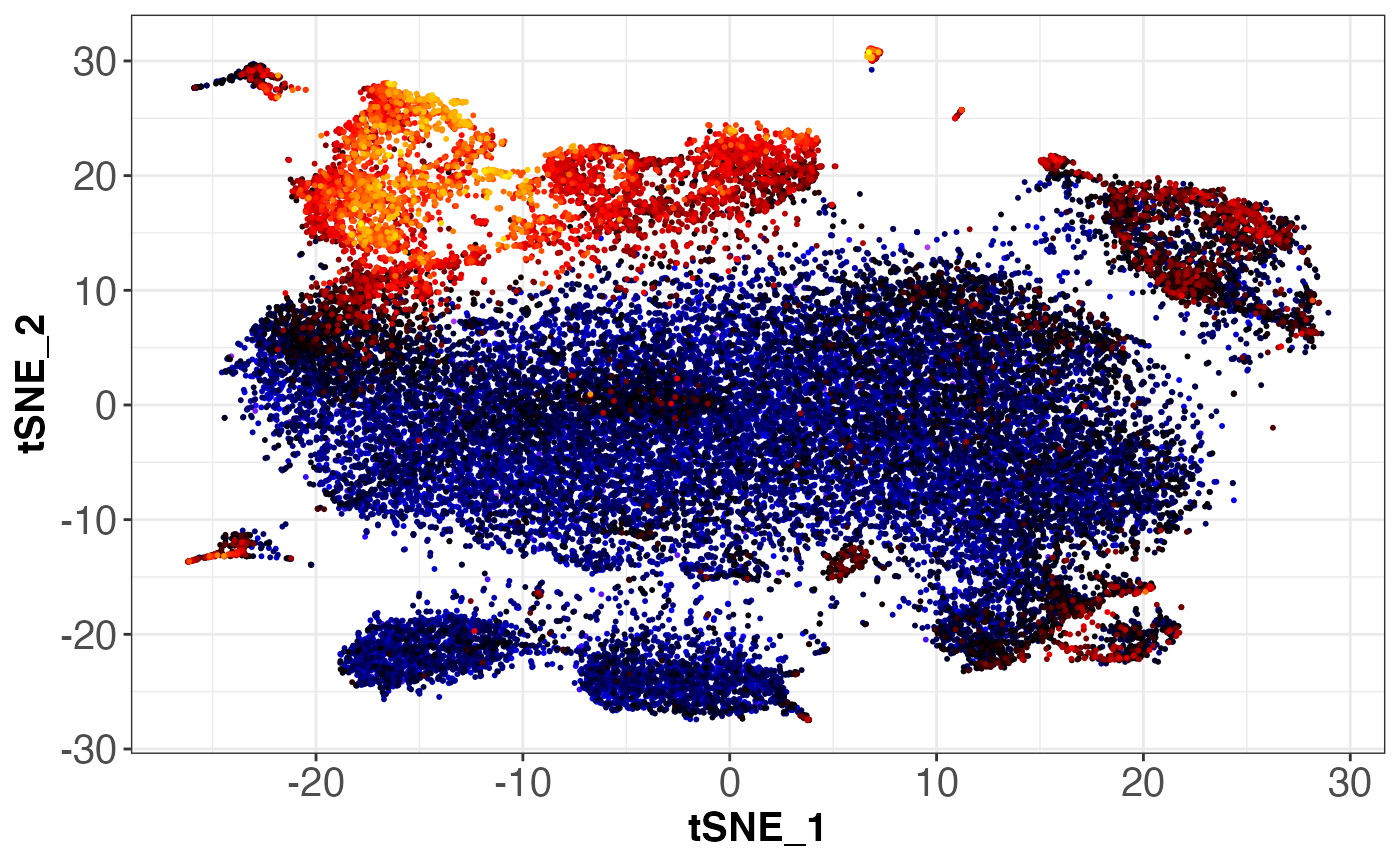
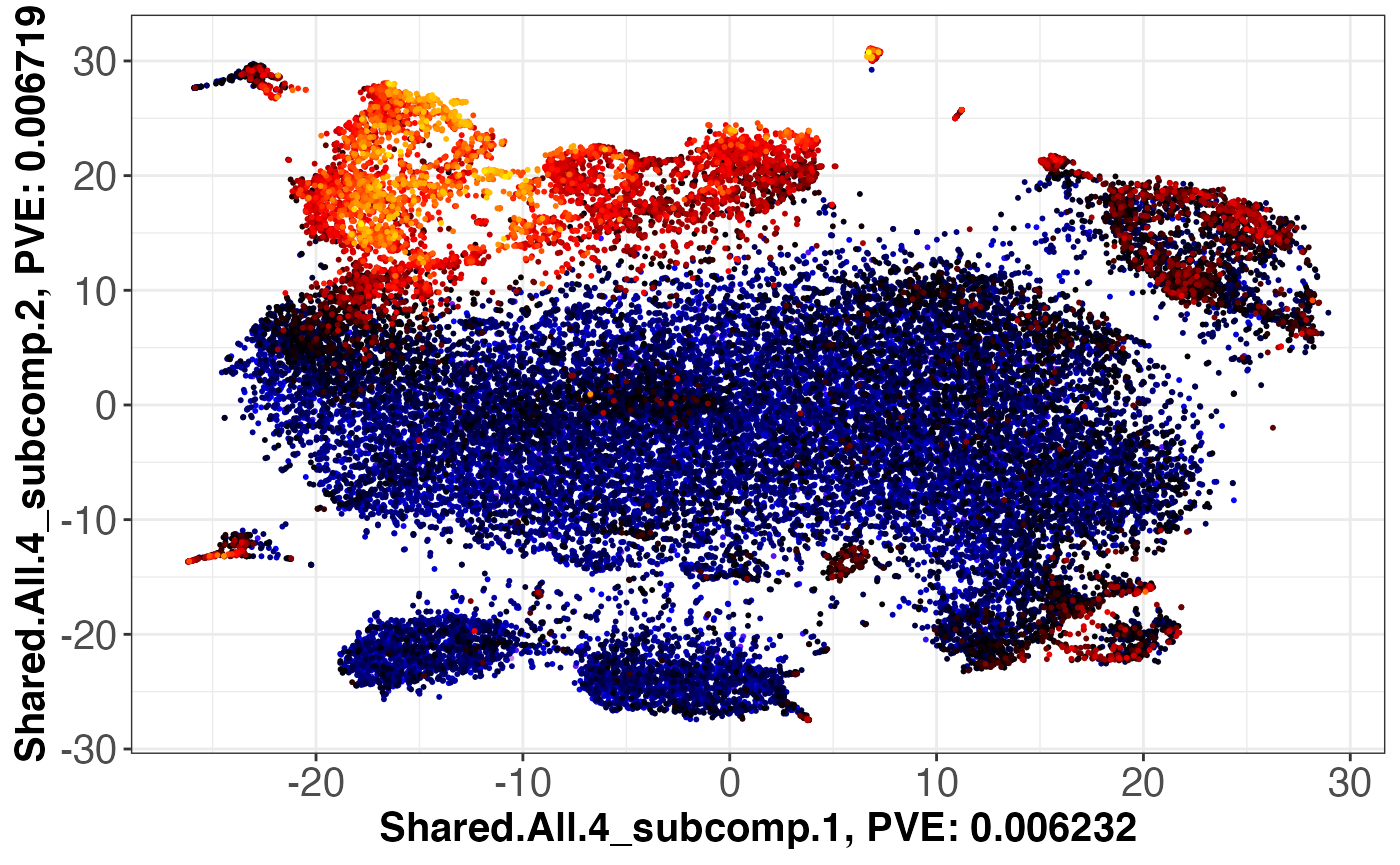
Edit the plotting function

Changed region(s): [[0.0, 0.0, 0.0307, 0.874], [0.2764, 0.9364, 0.8293, 0.9988]]

diff --git a/docs/articles/SJD.html b/docs/articles/SJD.html
@@ -94,7 +94,7 @@
                         <h4 class="author">Jinrui Liu</h4>
                         <h4 class="author">Carlo Colantuoni</h4>
             
-            <h4 class="date">08 December, 2021</h4>
+            <h4 class="date">01 January, 2022</h4>
       
       <small class="dont-index">Source: <a href="https://github.com/CHuanSite/SJD/blob/master/vignettes/SJD.Rmd"><code>vignettes/SJD.Rmd</code></a></small>
       <div class="hidden name"><code>SJD.Rmd</code></div>
@@ -149,39 +149,39 @@
 <div class="sourceCode" id="cb4"><pre class="downlit sourceCode r">
 <code class="sourceCode R"><span class="fu"><a href="https://rdrr.io/r/utils/str.html">str</a></span><span class="op">(</span><span class="va">concatPCA_res</span><span class="op">$</span><span class="va">linked_component_list</span><span class="op">)</span>
 <span class="co">#&gt; List of 9</span>
-<span class="co">#&gt;  $ component_No.1: num [1:100, 1:2] 0.0852 0.103 0.0734 -0.0879 -0.0499 ...</span>
+<span class="co">#&gt;  $ component_No.1: num [1:100, 1:2] -0.13059 -0.09118 0.01319 0.21601 0.00647 ...</span>
 <span class="co">#&gt;   ..- attr(*, "dimnames")=List of 2</span>
 <span class="co">#&gt;   .. ..$ : chr [1:100] "gene_No.1" "gene_No.2" "gene_No.3" "gene_No.4" ...</span>
 <span class="co">#&gt;   .. ..$ : chr [1:2] "component_No.1_subcomp.1" "component_No.1_subcomp.2"</span>
-<span class="co">#&gt;  $ component_No.2: num [1:100, 1:2] -0.0571 0.0706 -0.1117 0.0818 0.0475 ...</span>
+<span class="co">#&gt;  $ component_No.2: num [1:100, 1:2] 0.0382 -0.0533 0.0458 0.0698 0.1894 ...</span>
 <span class="co">#&gt;   ..- attr(*, "dimnames")=List of 2</span>
 <span class="co">#&gt;   .. ..$ : chr [1:100] "gene_No.1" "gene_No.2" "gene_No.3" "gene_No.4" ...</span>
 <span class="co">#&gt;   .. ..$ : chr [1:2] "component_No.2_subcomp.1" "component_No.2_subcomp.2"</span>
-<span class="co">#&gt;  $ component_No.3: num [1:100, 1:2] -0.0172 0.0816 -0.1936 0.0614 -0.1016 ...</span>
+<span class="co">#&gt;  $ component_No.3: num [1:100, 1:2] -0.09175 -0.07283 0.00325 0.13244 0.08493 ...</span>
 <span class="co">#&gt;   ..- attr(*, "dimnames")=List of 2</span>
 <span class="co">#&gt;   .. ..$ : chr [1:100] "gene_No.1" "gene_No.2" "gene_No.3" "gene_No.4" ...</span>
 <span class="co">#&gt;   .. ..$ : chr [1:2] "component_No.3_subcomp.1" "component_No.3_subcomp.2"</span>
-<span class="co">#&gt;  $ component_No.4: num [1:100, 1:2] -0.019 0.0609 -0.1204 0.1645 -0.026 ...</span>
+<span class="co">#&gt;  $ component_No.4: num [1:100, 1:2] -0.0712 -0.0711 0.1375 0.1301 -0.0092 ...</span>
 <span class="co">#&gt;   ..- attr(*, "dimnames")=List of 2</span>
 <span class="co">#&gt;   .. ..$ : chr [1:100] "gene_No.1" "gene_No.2" "gene_No.3" "gene_No.4" ...</span>
 <span class="co">#&gt;   .. ..$ : chr [1:2] "component_No.4_subcomp.1" "component_No.4_subcomp.2"</span>
-<span class="co">#&gt;  $ component_No.5: num [1:100, 1:2] 0.0314 -0.1793 -0.1779 0.1231 -0.079 ...</span>
+<span class="co">#&gt;  $ component_No.5: num [1:100, 1:2] -0.0948 -0.08724 -0.00732 0.18911 0.18481 ...</span>
 <span class="co">#&gt;   ..- attr(*, "dimnames")=List of 2</span>
 <span class="co">#&gt;   .. ..$ : chr [1:100] "gene_No.1" "gene_No.2" "gene_No.3" "gene_No.4" ...</span>
 <span class="co">#&gt;   .. ..$ : chr [1:2] "component_No.5_subcomp.1" "component_No.5_subcomp.2"</span>
-<span class="co">#&gt;  $ component_No.6: num [1:100, 1:2] -0.0363 -0.0455 0.047 -0.0408 -0.0375 ...</span>
+<span class="co">#&gt;  $ component_No.6: num [1:100, 1:2] -0.078688 0.000643 0.184418 -0.040237 -0.045999 ...</span>
 <span class="co">#&gt;   ..- attr(*, "dimnames")=List of 2</span>
 <span class="co">#&gt;   .. ..$ : chr [1:100] "gene_No.1" "gene_No.2" "gene_No.3" "gene_No.4" ...</span>
 <span class="co">#&gt;   .. ..$ : chr [1:2] "component_No.6_subcomp.1" "component_No.6_subcomp.2"</span>
-<span class="co">#&gt;  $ component_No.7: num [1:100, 1:2] -0.04 -0.1653 -0.2254 0.1331 -0.0554 ...</span>
+<span class="co">#&gt;  $ component_No.7: num [1:100, 1:2] -0.0274 0.0364 -0.1346 -0.0878 -0.2243 ...</span>
 <span class="co">#&gt;   ..- attr(*, "dimnames")=List of 2</span>
 <span class="co">#&gt;   .. ..$ : chr [1:100] "gene_No.1" "gene_No.2" "gene_No.3" "gene_No.4" ...</span>
 <span class="co">#&gt;   .. ..$ : chr [1:2] "component_No.7_subcomp.1" "component_No.7_subcomp.2"</span>
-<span class="co">#&gt;  $ component_No.8: num [1:100, 1:2] -0.0397 0.0501 -0.1814 0.1106 -0.0753 ...</span>
+<span class="co">#&gt;  $ component_No.8: num [1:100, 1:2] 0.0167 0.0955 -0.0279 -0.1616 0.0519 ...</span>
 <span class="co">#&gt;   ..- attr(*, "dimnames")=List of 2</span>
 <span class="co">#&gt;   .. ..$ : chr [1:100] "gene_No.1" "gene_No.2" "gene_No.3" "gene_No.4" ...</span>
 <span class="co">#&gt;   .. ..$ : chr [1:2] "component_No.8_subcomp.1" "component_No.8_subcomp.2"</span>
-<span class="co">#&gt;  $ component_No.9: num [1:100, 1:2] 0.02664 -0.16542 -0.073 -0.00112 -0.13429 ...</span>
+<span class="co">#&gt;  $ component_No.9: num [1:100, 1:2] 0.07733 0.08161 -0.02525 0.00689 -0.12425 ...</span>
 <span class="co">#&gt;   ..- attr(*, "dimnames")=List of 2</span>
 <span class="co">#&gt;   .. ..$ : chr [1:100] "gene_No.1" "gene_No.2" "gene_No.3" "gene_No.4" ...</span>
 <span class="co">#&gt;   .. ..$ : chr [1:2] "component_No.9_subcomp.1" "component_No.9_subcomp.2"</span></code></pre></div>
@@ -190,92 +190,92 @@
 <code class="sourceCode R"><span class="fu"><a href="https://rdrr.io/r/utils/str.html">str</a></span><span class="op">(</span><span class="va">concatPCA_res</span><span class="op">$</span><span class="va">score_list</span><span class="op">)</span>
 <span class="co">#&gt; List of 4</span>
 <span class="co">#&gt;  $ dataset_No.1:List of 9</span>
-<span class="co">#&gt;   ..$ component_No.1: num [1:2, 1:50] -0.873 1.68 1.191 -0.772 0.593 ...</span>
+<span class="co">#&gt;   ..$ component_No.1: num [1:2, 1:50] 2.572 -0.589 0.775 1.937 -1.033 ...</span>
 <span class="co">#&gt;   .. ..- attr(*, "dimnames")=List of 2</span>
-<span class="co">#&gt;   .. .. ..$ : chr [1:2] "component_No.1_subcomp.1, PVE: 0.033010" "component_No.1_subcomp.2, PVE: 0.030369"</span>
+<span class="co">#&gt;   .. .. ..$ : chr [1:2] "component_No.1_subcomp.1, PVE: 0.027036" "component_No.1_subcomp.2, PVE: 0.030177"</span>
 <span class="co">#&gt;   .. .. ..$ : chr [1:50] "subject_No.1" "subject_No.2" "subject_No.3" "subject_No.4" ...</span>
-<span class="co">#&gt;   ..$ component_No.2: num [1:2, 1:50] 2.076 -1.741 -0.499 -2.097 0.922 ...</span>
+<span class="co">#&gt;   ..$ component_No.2: num [1:2, 1:50] 1.105 -0.838 -2.033 0.627 2.371 ...</span>
 <span class="co">#&gt;   .. ..- attr(*, "dimnames")=List of 2</span>
-<span class="co">#&gt;   .. .. ..$ : chr [1:2] "component_No.2_subcomp.1, PVE: 0.042356" "component_No.2_subcomp.2, PVE: 0.037522"</span>
+<span class="co">#&gt;   .. .. ..$ : chr [1:2] "component_No.2_subcomp.1, PVE: 0.030613" "component_No.2_subcomp.2, PVE: 0.034422"</span>
 <span class="co">#&gt;   .. .. ..$ : chr [1:50] "subject_No.1" "subject_No.2" "subject_No.3" "subject_No.4" ...</span>
 <span class="co">#&gt;   ..$ component_No.3: logi NA</span>
-<span class="co">#&gt;   ..$ component_No.4: num [1:2, 1:50] 0.889 -2.394 0.283 -0.684 0.295 ...</span>
+<span class="co">#&gt;   ..$ component_No.4: num [1:2, 1:50] 3.657 1.605 0.982 2.542 -1.3 ...</span>
 <span class="co">#&gt;   .. ..- attr(*, "dimnames")=List of 2</span>
-<span class="co">#&gt;   .. .. ..$ : chr [1:2] "component_No.4_subcomp.1, PVE: 0.039367" "component_No.4_subcomp.2, PVE: 0.038289"</span>
+<span class="co">#&gt;   .. .. ..$ : chr [1:2] "component_No.4_subcomp.1, PVE: 0.035476" "component_No.4_subcomp.2, PVE: 0.035726"</span>
 <span class="co">#&gt;   .. .. ..$ : chr [1:50] "subject_No.1" "subject_No.2" "subject_No.3" "subject_No.4" ...</span>
 <span class="co">#&gt;   ..$ component_No.5: logi NA</span>
-<span class="co">#&gt;   ..$ component_No.6: num [1:2, 1:50] -2.9479 -0.5243 -1.8581 2.5114 -0.0211 ...</span>
+<span class="co">#&gt;   ..$ component_No.6: num [1:2, 1:50] 2.1509 -0.0698 1.0875 -2.0243 -1.8673 ...</span>
 <span class="co">#&gt;   .. ..- attr(*, "dimnames")=List of 2</span>
-<span class="co">#&gt;   .. .. ..$ : chr [1:2] "component_No.6_subcomp.1, PVE: 0.054612" "component_No.6_subcomp.2, PVE: 0.050999"</span>
+<span class="co">#&gt;   .. .. ..$ : chr [1:2] "component_No.6_subcomp.1, PVE: 0.051635" "component_No.6_subcomp.2, PVE: 0.048038"</span>
 <span class="co">#&gt;   .. .. ..$ : chr [1:50] "subject_No.1" "subject_No.2" "subject_No.3" "subject_No.4" ...</span>
 <span class="co">#&gt;   ..$ component_No.7: logi NA</span>
 <span class="co">#&gt;   ..$ component_No.8: logi NA</span>
 <span class="co">#&gt;   ..$ component_No.9: logi NA</span>
 <span class="co">#&gt;  $ dataset_No.2:List of 9</span>
-<span class="co">#&gt;   ..$ component_No.1: num [1:2, 1:50] -0.593 0.912 1.451 -0.733 1.425 ...</span>
+<span class="co">#&gt;   ..$ component_No.1: num [1:2, 1:50] -0.9143 0.0843 0.8626 -0.879 2.161 ...</span>
 <span class="co">#&gt;   .. ..- attr(*, "dimnames")=List of 2</span>
-<span class="co">#&gt;   .. .. ..$ : chr [1:2] "component_No.1_subcomp.1, PVE: 0.025838" "component_No.1_subcomp.2, PVE: 0.021534"</span>
+<span class="co">#&gt;   .. .. ..$ : chr [1:2] "component_No.1_subcomp.1, PVE: 0.030881" "component_No.1_subcomp.2, PVE: 0.024188"</span>
 <span class="co">#&gt;   .. .. ..$ : chr [1:50] "subject_No.1" "subject_No.2" "subject_No.3" "subject_No.4" ...</span>
-<span class="co">#&gt;   ..$ component_No.2: num [1:2, 1:50] -1.6058 1.5165 -0.0299 -2.5874 -0.96 ...</span>
+<span class="co">#&gt;   ..$ component_No.2: num [1:2, 1:50] -1.26 -0.802 0.96 -0.286 -2.2 ...</span>
 <span class="co">#&gt;   .. ..- attr(*, "dimnames")=List of 2</span>
-<span class="co">#&gt;   .. .. ..$ : chr [1:2] "component_No.2_subcomp.1, PVE: 0.033758" "component_No.2_subcomp.2, PVE: 0.034300"</span>
+<span class="co">#&gt;   .. .. ..$ : chr [1:2] "component_No.2_subcomp.1, PVE: 0.044810" "component_No.2_subcomp.2, PVE: 0.037589"</span>
 <span class="co">#&gt;   .. .. ..$ : chr [1:50] "subject_No.1" "subject_No.2" "subject_No.3" "subject_No.4" ...</span>
 <span class="co">#&gt;   ..$ component_No.3: logi NA</span>
 <span class="co">#&gt;   ..$ component_No.4: logi NA</span>
-<span class="co">#&gt;   ..$ component_No.5: num [1:2, 1:50] -1.844 -0.187 2 -3.312 -0.386 ...</span>
+<span class="co">#&gt;   ..$ component_No.5: num [1:2, 1:50] 0.723 0.972 0.805 1.259 1.174 ...</span>
 <span class="co">#&gt;   .. ..- attr(*, "dimnames")=List of 2</span>
-<span class="co">#&gt;   .. .. ..$ : chr [1:2] "component_No.5_subcomp.1, PVE: 0.042693" "component_No.5_subcomp.2, PVE: 0.031134"</span>
+<span class="co">#&gt;   .. .. ..$ : chr [1:2] "component_No.5_subcomp.1, PVE: 0.042830" "component_No.5_subcomp.2, PVE: 0.031067"</span>
 <span class="co">#&gt;   .. .. ..$ : chr [1:50] "subject_No.1" "subject_No.2" "subject_No.3" "subject_No.4" ...</span>
 <span class="co">#&gt;   ..$ component_No.6: logi NA</span>
-<span class="co">#&gt;   ..$ component_No.7: num [1:2, 1:50] -2.552 -2.012 3.176 -0.274 0.347 ...</span>
+<span class="co">#&gt;   ..$ component_No.7: num [1:2, 1:50] -0.272 -1.751 -2.987 -1.301 0.557 ...</span>
 <span class="co">#&gt;   .. ..- attr(*, "dimnames")=List of 2</span>
-<span class="co">#&gt;   .. .. ..$ : chr [1:2] "component_No.7_subcomp.1, PVE: 0.054585" "component_No.7_subcomp.2, PVE: 0.052280"</span>
+<span class="co">#&gt;   .. .. ..$ : chr [1:2] "component_No.7_subcomp.1, PVE: 0.057414" "component_No.7_subcomp.2, PVE: 0.050199"</span>
 <span class="co">#&gt;   .. .. ..$ : chr [1:50] "subject_No.1" "subject_No.2" "subject_No.3" "subject_No.4" ...</span>
 <span class="co">#&gt;   ..$ component_No.8: logi NA</span>
 <span class="co">#&gt;   ..$ component_No.9: logi NA</span>
 <span class="co">#&gt;  $ dataset_No.3:List of 9</span>
-<span class="co">#&gt;   ..$ component_No.1: num [1:2, 1:50] 2.528 -0.482 -1.549 0.802 -1.358 ...</span>
+<span class="co">#&gt;   ..$ component_No.1: num [1:2, 1:50] 0.0849 1.0357 1.963 0.6629 0.5684 ...</span>
 <span class="co">#&gt;   .. ..- attr(*, "dimnames")=List of 2</span>
-<span class="co">#&gt;   .. .. ..$ : chr [1:2] "component_No.1_subcomp.1, PVE: 0.031925" "component_No.1_subcomp.2, PVE: 0.032901"</span>
+<span class="co">#&gt;   .. .. ..$ : chr [1:2] "component_No.1_subcomp.1, PVE: 0.033954" "component_No.1_subcomp.2, PVE: 0.017095"</span>
 <span class="co">#&gt;   .. .. ..$ : chr [1:50] "subject_No.1" "subject_No.2" "subject_No.3" "subject_No.4" ...</span>
 <span class="co">#&gt;   ..$ component_No.2: logi NA</span>
-<span class="co">#&gt;   ..$ component_No.3: num [1:2, 1:50] 0.475 -2.032 1.369 2.088 2.634 ...</span>
+<span class="co">#&gt;   ..$ component_No.3: num [1:2, 1:50] -0.82 -1.57 1.29 1.84 1.32 ...</span>
 <span class="co">#&gt;   .. ..- attr(*, "dimnames")=List of 2</span>
-<span class="co">#&gt;   .. .. ..$ : chr [1:2] "component_No.3_subcomp.1, PVE: 0.043969" "component_No.3_subcomp.2, PVE: 0.039225"</span>
+<span class="co">#&gt;   .. .. ..$ : chr [1:2] "component_No.3_subcomp.1, PVE: 0.029586" "component_No.3_subcomp.2, PVE: 0.032468"</span>
 <span class="co">#&gt;   .. .. ..$ : chr [1:50] "subject_No.1" "subject_No.2" "subject_No.3" "subject_No.4" ...</span>
-<span class="co">#&gt;   ..$ component_No.4: num [1:2, 1:50] -1.281 0.441 0.977 -2.721 2.298 ...</span>
+<span class="co">#&gt;   ..$ component_No.4: num [1:2, 1:50] 0.0916 2.2546 3.7971 -0.5673 0.3608 ...</span>
 <span class="co">#&gt;   .. ..- attr(*, "dimnames")=List of 2</span>
-<span class="co">#&gt;   .. .. ..$ : chr [1:2] "component_No.4_subcomp.1, PVE: 0.039516" "component_No.4_subcomp.2, PVE: 0.036829"</span>
+<span class="co">#&gt;   .. .. ..$ : chr [1:2] "component_No.4_subcomp.1, PVE: 0.038837" "component_No.4_subcomp.2, PVE: 0.035501"</span>
 <span class="co">#&gt;   .. .. ..$ : chr [1:50] "subject_No.1" "subject_No.2" "subject_No.3" "subject_No.4" ...</span>
 <span class="co">#&gt;   ..$ component_No.5: logi NA</span>
 <span class="co">#&gt;   ..$ component_No.6: logi NA</span>
 <span class="co">#&gt;   ..$ component_No.7: logi NA</span>
-<span class="co">#&gt;   ..$ component_No.8: num [1:2, 1:50] -0.688 2.547 0.128 -0.751 3.678 ...</span>
+<span class="co">#&gt;   ..$ component_No.8: num [1:2, 1:50] -1.04 1.55 -2.25 3.06 1.15 ...</span>
 <span class="co">#&gt;   .. ..- attr(*, "dimnames")=List of 2</span>
-<span class="co">#&gt;   .. .. ..$ : chr [1:2] "component_No.8_subcomp.1, PVE: 0.055159" "component_No.8_subcomp.2, PVE: 0.051300"</span>
+<span class="co">#&gt;   .. .. ..$ : chr [1:2] "component_No.8_subcomp.1, PVE: 0.054203" "component_No.8_subcomp.2, PVE: 0.050967"</span>
 <span class="co">#&gt;   .. .. ..$ : chr [1:50] "subject_No.1" "subject_No.2" "subject_No.3" "subject_No.4" ...</span>
 <span class="co">#&gt;   ..$ component_No.9: logi NA</span>
 <span class="co">#&gt;  $ dataset_No.4:List of 9</span>
-<span class="co">#&gt;   ..$ component_No.1: num [1:2, 1:50] -0.0809 1.5683 -0.5946 1.1154 0.2806 ...</span>
+<span class="co">#&gt;   ..$ component_No.1: num [1:2, 1:50] 0.785 -0.568 -0.184 -0.228 -2.199 ...</span>
 <span class="co">#&gt;   .. ..- attr(*, "dimnames")=List of 2</span>
-<span class="co">#&gt;   .. .. ..$ : chr [1:2] "component_No.1_subcomp.1, PVE: 0.021947" "component_No.1_subcomp.2, PVE: 0.026028"</span>
+<span class="co">#&gt;   .. .. ..$ : chr [1:2] "component_No.1_subcomp.1, PVE: 0.022047" "component_No.1_subcomp.2, PVE: 0.038202"</span>
 <span class="co">#&gt;   .. .. ..$ : chr [1:50] "subject_No.1" "subject_No.2" "subject_No.3" "subject_No.4" ...</span>
 <span class="co">#&gt;   ..$ component_No.2: logi NA</span>
-<span class="co">#&gt;   ..$ component_No.3: num [1:2, 1:50] 0.6032 1.9559 0.0369 1.3403 -0.7434 ...</span>
+<span class="co">#&gt;   ..$ component_No.3: num [1:2, 1:50] 2.348 -0.387 1.425 1.629 0.337 ...</span>
 <span class="co">#&gt;   .. ..- attr(*, "dimnames")=List of 2</span>
-<span class="co">#&gt;   .. .. ..$ : chr [1:2] "component_No.3_subcomp.1, PVE: 0.033559" "component_No.3_subcomp.2, PVE: 0.036551"</span>
+<span class="co">#&gt;   .. .. ..$ : chr [1:2] "component_No.3_subcomp.1, PVE: 0.044388" "component_No.3_subcomp.2, PVE: 0.039727"</span>
 <span class="co">#&gt;   .. .. ..$ : chr [1:50] "subject_No.1" "subject_No.2" "subject_No.3" "subject_No.4" ...</span>
 <span class="co">#&gt;   ..$ component_No.4: logi NA</span>
-<span class="co">#&gt;   ..$ component_No.5: num [1:2, 1:50] 2.711 -1.699 1.06 -0.628 2.731 ...</span>
+<span class="co">#&gt;   ..$ component_No.5: num [1:2, 1:50] 1.238 -3.263 -0.177 -1.582 -1.421 ...</span>
 <span class="co">#&gt;   .. ..- attr(*, "dimnames")=List of 2</span>
-<span class="co">#&gt;   .. .. ..$ : chr [1:2] "component_No.5_subcomp.1, PVE: 0.031185" "component_No.5_subcomp.2, PVE: 0.038400"</span>
+<span class="co">#&gt;   .. .. ..$ : chr [1:2] "component_No.5_subcomp.1, PVE: 0.035687" "component_No.5_subcomp.2, PVE: 0.042917"</span>
 <span class="co">#&gt;   .. .. ..$ : chr [1:50] "subject_No.1" "subject_No.2" "subject_No.3" "subject_No.4" ...</span>
 <span class="co">#&gt;   ..$ component_No.6: logi NA</span>
 <span class="co">#&gt;   ..$ component_No.7: logi NA</span>
 <span class="co">#&gt;   ..$ component_No.8: logi NA</span>
-<span class="co">#&gt;   ..$ component_No.9: num [1:2, 1:50] 1.864 0.946 1.729 -0.426 1.633 ...</span>
+<span class="co">#&gt;   ..$ component_No.9: num [1:2, 1:50] -4.085 0.214 -1.555 -2.154 -0.291 ...</span>
 <span class="co">#&gt;   .. ..- attr(*, "dimnames")=List of 2</span>
-<span class="co">#&gt;   .. .. ..$ : chr [1:2] "component_No.9_subcomp.1, PVE: 0.052711" "component_No.9_subcomp.2, PVE: 0.051332"</span>
+<span class="co">#&gt;   .. .. ..$ : chr [1:2] "component_No.9_subcomp.1, PVE: 0.055243" "component_No.9_subcomp.2, PVE: 0.050062"</span>
 <span class="co">#&gt;   .. .. ..$ : chr [1:50] "subject_No.1" "subject_No.2" "subject_No.3" "subject_No.4" ...</span></code></pre></div>
 </div>
 <div id="weighting-data-sets-by-different-weights" class="section level1">

diff --git a/docs/articles/StructralJointDecomposition.html b/docs/articles/StructralJointDecomposition.html
@@ -94,7 +94,7 @@
                         <h4 class="author">Jinrui Liu</h4>
                         <h4 class="author">Carlo Colantuoni</h4>
             
-            <h4 class="date">08 December, 2021</h4>
+            <h4 class="date">01 January, 2022</h4>
       
       <small class="dont-index">Source: <a href="https://github.com/CHuanSite/SJD/blob/master/vignettes/StructralJointDecomposition.Rmd"><code>vignettes/StructralJointDecomposition.Rmd</code></a></small>
       <div class="hidden name"><code>StructralJointDecomposition.Rmd</code></div>
@@ -124,11 +124,11 @@
 <p>We download the full data sets from the google drive, and load it into <code>R</code></p>
 <div class="sourceCode" id="cb3"><pre class="downlit sourceCode r">
 <code class="sourceCode R"><span class="fu"><a href="https://rdrr.io/r/utils/install.packages.html">install.packages</a></span><span class="op">(</span><span class="st">"googledrive"</span><span class="op">)</span>
-<span class="co">#&gt; Installing package into '/private/var/folders/hn/15_w90p96zn9px58h76x8sfr0000gn/T/RtmpsekR5W/temp_libpath162152b39b670'</span>
+<span class="co">#&gt; Installing package into '/private/var/folders/hn/15_w90p96zn9px58h76x8sfr0000gn/T/RtmpEUczWp/temp_libpath8ae26f049728'</span>
 <span class="co">#&gt; (as 'lib' is unspecified)</span>
 <span class="co">#&gt; </span>
 <span class="co">#&gt; The downloaded binary packages are in</span>
-<span class="co">#&gt;  /var/folders/hn/15_w90p96zn9px58h76x8sfr0000gn/T//RtmpkeonC8/downloaded_packages</span>
+<span class="co">#&gt;  /var/folders/hn/15_w90p96zn9px58h76x8sfr0000gn/T//RtmpkIfcHR/downloaded_packages</span>
 
 <span class="kw"><a href="https://rdrr.io/r/base/library.html">library</a></span><span class="op">(</span><span class="va"><a href="https://googledrive.tidyverse.org">googledrive</a></span><span class="op">)</span>
 
@@ -183,22 +183,23 @@
 <span class="co">#&gt; Using biomaRt to connect gene IDs across 4 datasets:</span>
 <span class="co">#&gt; Getting biomaRt IDs for dataset 1 </span>
 <span class="co">#&gt; You have input  23368  genes</span>
-<span class="co">#&gt; We found  22473  matches</span>
-<span class="co">#&gt; 2674  of those are duplicates and only keeping the 1st of each</span>
-<span class="co">#&gt; Getting biomaRt IDs for dataset 2 </span>
+<span class="co">#&gt; We found  22403  matches</span>
+<span class="co">#&gt; 2654  of those are duplicates and only keeping the 1st of each</span>
+<span class="co">#&gt; Getting biomaRt IDs for dataset 2</span>
+<span class="co">#&gt; Ensembl site unresponsive, trying asia mirror</span>
 <span class="co">#&gt; You have input  63677  genes</span>
-<span class="co">#&gt; We found  54502  matches</span>
-<span class="co">#&gt; 17111  of those are duplicates and only keeping the 1st of each</span>
+<span class="co">#&gt; We found  54480  matches</span>
+<span class="co">#&gt; 16878  of those are duplicates and only keeping the 1st of each</span>
 <span class="co">#&gt; Getting biomaRt IDs for dataset 3 </span>
 <span class="co">#&gt; You have input  35543  genes</span>
-<span class="co">#&gt; We found  25683  matches</span>
-<span class="co">#&gt; 2288  of those are duplicates and only keeping the 1st of each</span>
+<span class="co">#&gt; We found  25597  matches</span>
+<span class="co">#&gt; 2271  of those are duplicates and only keeping the 1st of each</span>
 <span class="co">#&gt; Getting biomaRt IDs for dataset 4 </span>
 <span class="co">#&gt; You have input  16441  genes</span>
-<span class="co">#&gt; We found  12301  matches</span>
-<span class="co">#&gt; 668  of those are duplicates and only keeping the 1st of each</span>
+<span class="co">#&gt; We found  12409  matches</span>
+<span class="co">#&gt; 621  of those are duplicates and only keeping the 1st of each</span>
 <span class="co">#&gt; constructed 4 tables of cross-species matching genes</span>
-<span class="co">#&gt; we found 10537 shared genes in 4 datasets</span>
+<span class="co">#&gt; we found 10631 shared genes in 4 datasets</span>
 <span class="co">#&gt; new data list of 4 datasets constructed</span></code></pre></div>
 </div>
 <div id="apply-the-decomposition-method" class="section level2">

diff --git a/docs/articles/twoStageLCA.html b/docs/articles/twoStageLCA.html
@@ -94,7 +94,7 @@
                         <h4 class="author">Jinrui Liu</h4>
                         <h4 class="author">Carlo Colantuoni</h4>
             
-            <h4 class="date">08 December, 2021</h4>
+            <h4 class="date">01 January, 2022</h4>
       
       <small class="dont-index">Source: <a href="https://github.com/CHuanSite/SJD/blob/master/vignettes/twoStageLCA.Rmd"><code>vignettes/twoStageLCA.Rmd</code></a></small>
       <div class="hidden name"><code>twoStageLCA.Rmd</code></div>
@@ -119,11 +119,11 @@
 <p>First, install the ‘googleDrive’ package</p>
 <div class="sourceCode" id="cb3"><pre class="downlit sourceCode r">
 <code class="sourceCode R"><span class="fu"><a href="https://rdrr.io/r/utils/install.packages.html">install.packages</a></span><span class="op">(</span><span class="st">'googledrive'</span><span class="op">)</span>
-<span class="co">#&gt; Installing package into '/private/var/folders/hn/15_w90p96zn9px58h76x8sfr0000gn/T/RtmpsekR5W/temp_libpath162152b39b670'</span>
+<span class="co">#&gt; Installing package into '/private/var/folders/hn/15_w90p96zn9px58h76x8sfr0000gn/T/RtmpEUczWp/temp_libpath8ae26f049728'</span>
 <span class="co">#&gt; (as 'lib' is unspecified)</span>
 <span class="co">#&gt; </span>
 <span class="co">#&gt; The downloaded binary packages are in</span>
-<span class="co">#&gt;  /var/folders/hn/15_w90p96zn9px58h76x8sfr0000gn/T//RtmpRwMErb/downloaded_packages</span></code></pre></div>
+<span class="co">#&gt;  /var/folders/hn/15_w90p96zn9px58h76x8sfr0000gn/T//Rtmp9SSkHx/downloaded_packages</span></code></pre></div>
 <p>Download RNA and explaination data from Google Drive,</p>
 <div class="sourceCode" id="cb4"><pre class="downlit sourceCode r">
 <code class="sourceCode R"><span class="kw"><a href="https://rdrr.io/r/base/library.html">library</a></span><span class="op">(</span><span class="va"><a href="https://googledrive.tidyverse.org">googledrive</a></span><span class="op">)</span>

diff --git a/docs/reference/sjdWrap.html b/docs/reference/sjdWrap.html
@@ -195,17 +195,15 @@
 <span class='r-out co'><span class='r-pr'>#&gt;</span> We found  37  matches</span>
 <span class='r-out co'><span class='r-pr'>#&gt;</span> 1  of those are duplicates and only keeping the 1st of each</span>
 <span class='r-out co'><span class='r-pr'>#&gt;</span> Getting biomaRt IDs for dataset 3 </span>
-<span class='r-msg co'><span class='r-pr'>#&gt;</span> Ensembl site unresponsive, trying useast mirror</span>
-<span class='r-msg co'><span class='r-pr'>#&gt;</span> Ensembl site unresponsive, trying useast mirror</span>
 <span class='r-out co'><span class='r-pr'>#&gt;</span> You have input  40  genes</span>
 <span class='r-out co'><span class='r-pr'>#&gt;</span> We found  39  matches</span>
 <span class='r-out co'><span class='r-pr'>#&gt;</span> 0  of those are duplicates and only keeping the 1st of each</span>
 <span class='r-out co'><span class='r-pr'>#&gt;</span> Getting biomaRt IDs for dataset 4 </span>
 <span class='r-out co'><span class='r-pr'>#&gt;</span> You have input  40  genes</span>
-<span class='r-out co'><span class='r-pr'>#&gt;</span> We found  34  matches</span>
-<span class='r-out co'><span class='r-pr'>#&gt;</span> 0  of those are duplicates and only keeping the 1st of each</span>
+<span class='r-out co'><span class='r-pr'>#&gt;</span> We found  32  matches</span>
+<span class='r-out co'><span class='r-pr'>#&gt;</span> 1  of those are duplicates and only keeping the 1st of each</span>
 <span class='r-out co'><span class='r-pr'>#&gt;</span> constructed 4 tables of cross-species matching genes</span>
-<span class='r-out co'><span class='r-pr'>#&gt;</span> we found 27 shared genes in 4 datasets</span>
+<span class='r-out co'><span class='r-pr'>#&gt;</span> we found 25 shared genes in 4 datasets</span>
 <span class='r-out co'><span class='r-pr'>#&gt;</span> new data list of 4 datasets constructed</span>
 <span class='r-in'></span>
 </pre>

diff --git a/docs/reference/getMatch.html b/docs/reference/getMatch.html
@@ -191,7 +191,7 @@
 <span class='r-in'>newSpecies <span class='op'>=</span> <span class='st'>'mouse'</span><span class='op'>)</span></span>
 <span class='r-out co'><span class='r-pr'>#&gt;</span> You have input  40  genes</span>
 <span class='r-out co'><span class='r-pr'>#&gt;</span> We found  38  matches</span>
-<span class='r-out co'><span class='r-pr'>#&gt;</span> 6  of those are duplicates and only keeping the 1st of each</span>
+<span class='r-out co'><span class='r-pr'>#&gt;</span> 5  of those are duplicates and only keeping the 1st of each</span>
 <span class='r-in'></span>
 </pre>
   </div>
